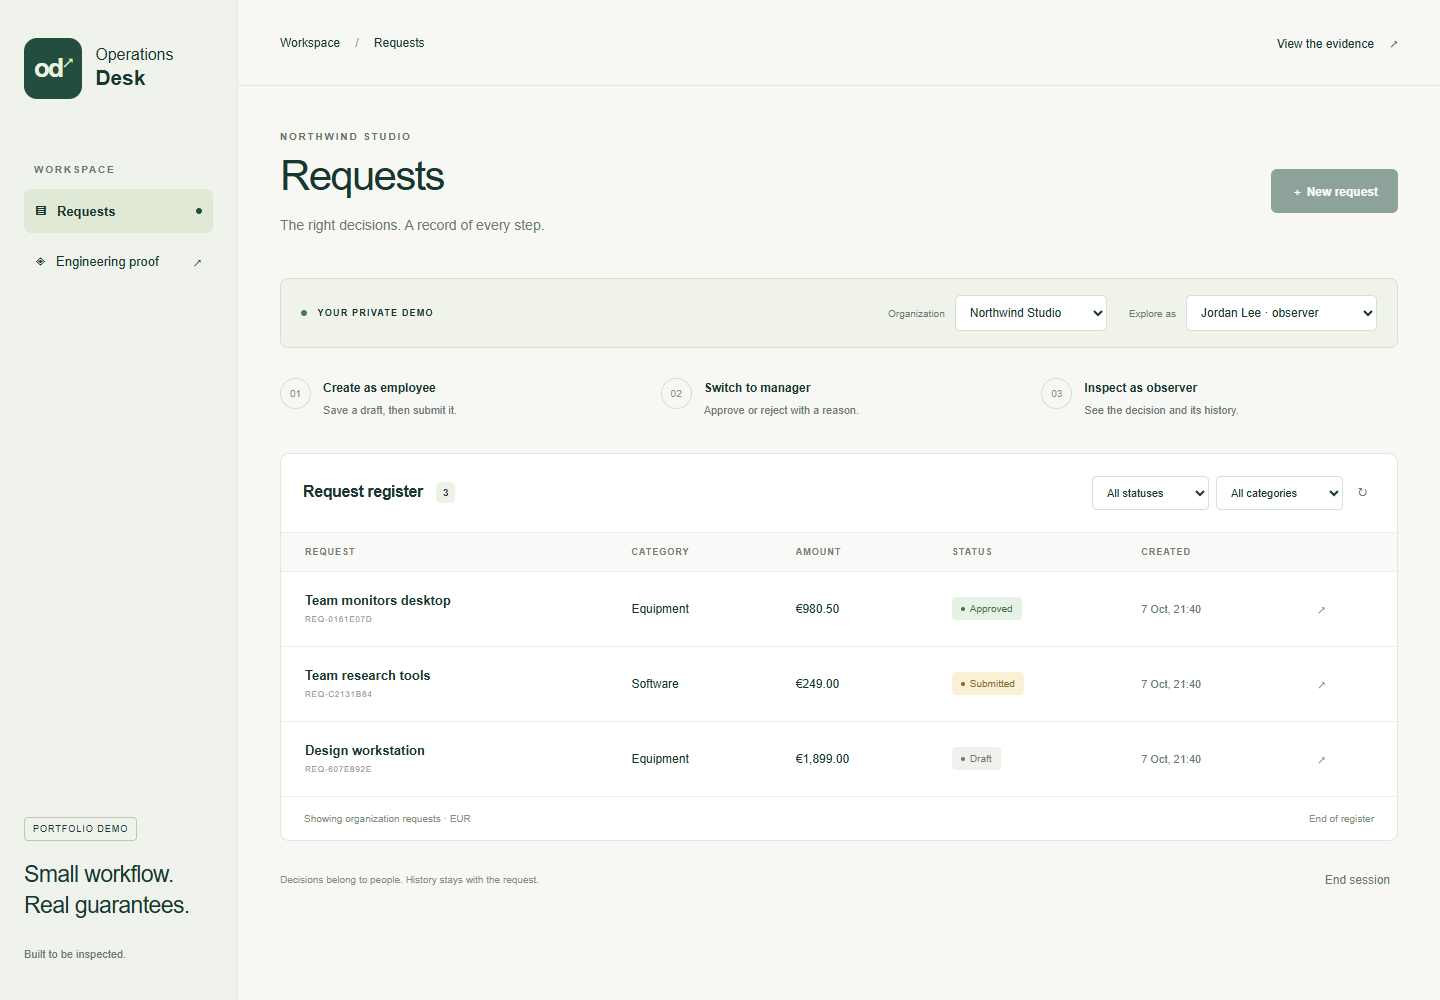
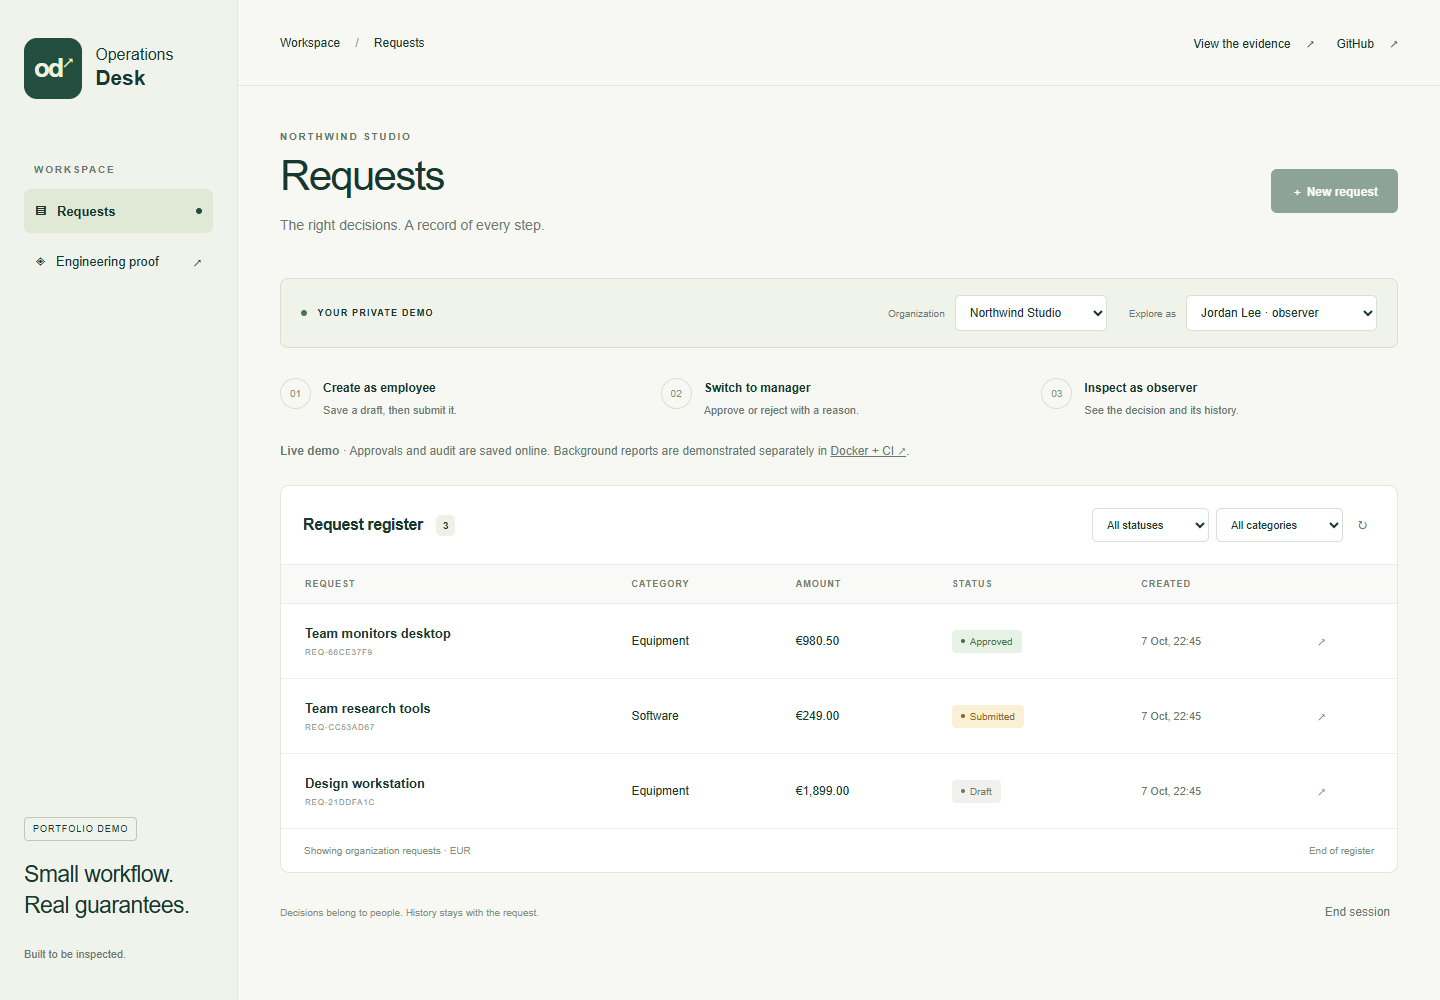
Publish final client-review evidence, screenshots and release provenance

diff --git a/docs/RELEASE.md b/docs/RELEASE.md
@@ -1,36 +1,41 @@
 # Verified release — 2026-10-07
 
-[Try Operations Desk](https://operations-desk-reliability.vanya-matyushkin.workers.dev/) · [Inspect the evidence](https://operations-desk-reliability.vanya-matyushkin.workers.dev/proof/) · [Successful CI run](https://github.com/Hadezu/operations-desk-reliability/actions/runs/37680782120)
+[Try Operations Desk](https://operations-desk-reliability.vanya-matyushkin.workers.dev/) · [Inspect the evidence](https://operations-desk-reliability.vanya-matyushkin.workers.dev/proof/) · [Successful CI run](https://github.com/Hadezu/operations-desk-reliability/actions/runs/37683837483)
 
-The application is published on Cloudflare Workers Free with Neon Free PostgreSQL. Local API, frontend, PostgreSQL and Redis processes were stopped before the final HTTPS approval smoke check, which passed. The deployed app has no dependency on the development computer. No paid plan, paid runner or hosted Redis subscription was enabled.
+The four changes requested after a client-style review are published:
 
-## What was executed
+1. The first screen explains the project, names the author and technologies, and links directly to GitHub. It distinguishes the live approval flow from the complete Node/worker environment.
+2. Activity displays the actor's name and role beside each action; the decision also names its reviewer. Automated worker events have a separate system label. These demo members have fixed names and roles; no claim of historical identity snapshots is made.
+3. Six expandable evidence cards replace the wide table. The overview shows CI status, verification date and evidence counts. Expected/observed results, source links, JSON and provenance remain available. Failed or missing evidence cannot render as passed.
+4. A saved approval clearly completes the online demo. Background reports, retries and recovery are identified as the separate Docker/CI demonstration, with a direct link to that evidence.
 
-- 40 API/database tests across the Prisma and edge SQL adapters, using real PostgreSQL and the restricted application role.
-- Five recovery scenarios against real PostgreSQL and Redis: outbox publication, worker termination, crash after commit, bounded retry and controlled replay, and lost queue-record reconciliation.
-- Desktop and mobile browser approval journeys, including the actual BullMQ report in the separate Docker Compose job.
-- Strict TypeScript checks, Next.js build, Cloudflare bundle and local workerd/PostgreSQL approval flow.
-- Hosted database privilege checks and public HTTPS tests for sessions, CSRF, idempotency, draft edit/delete, approval, role and tenant denials, audit and logout.
+## Verification performed
 
-The CI artifact contains 53 passed checks and one public-deployment placeholder. The website merges the separately collected deployment artifact, producing 54 passed evidence entries. These counts are evidence entries, not 54 independent test cases. Both artifacts are checked into `evidence/`; the website includes them only when their source hash matches the build.
+- 40 API/database tests across Prisma and the edge SQL adapter, using real PostgreSQL and the restricted application role.
+- Five recovery scenarios against PostgreSQL and Redis: outbox publication, process termination, crash after commit, bounded retry with controlled replay, and lost queue-record reconciliation.
+- Desktop and mobile browser approval journeys in both CI jobs, including a real BullMQ report in Docker. New assertions verify named employee/manager audit events, automated worker attribution, demo completion, GitHub links and responsive evidence disclosures.
+- Strict TypeScript, Next.js build, Cloudflare bundle and local workerd/PostgreSQL approval checks.
+- Repeated public HTTPS API checks and desktop/mobile browser journeys after publication. Hosted database privilege checks passed. Manual verification covered the new landing screen, create/submit/approve, named audit, observer restrictions, reload persistence, organization switching and expanded evidence at a 390 px viewport. The landing screen and evidence layout were also checked at 320 px in the local build.
+
+The public page contains 54 passed evidence entries. CI supplies 53 and the separately collected public-deployment observation supplies one. These are evidence entries, not 54 independent test cases. The build embeds them only when their source fingerprints match.
 
 ## Provenance
 
 | Item | Value |
 |---|---|
-| Tested source commit | `da9530acd18a2eeb2cdca7ae4a9aec255a6f0ef4` |
[1 lines of base64/hex data omitted]
-| Successful Actions run | `37680782120` |
-| Downloaded release-proof artifact | `11507614820` |
-| CPU-sampled Worker version | `554a14ab-6e7a-4b82-a3f9-e30916723a5e` |
-| Final Worker version after evidence asset publication | `bdec42fc-fb2a-4bb5-84b4-ec6e4a51a513` |
+| Tested source commit | `3bc346229ec8aed3084835875cb537e60939d188` |
[1 lines of base64/hex data omitted]
+| Successful Actions run | [37683837483](https://github.com/Hadezu/operations-desk-reliability/actions/runs/37683837483) |
+| Downloaded release-proof artifact | `11509549146` |
+| CPU-sampled Worker version | `c6c42127-ffe5-4938-b744-31da1723e0f2` |
+| Final version after evidence asset publication | `1697a7f1-83d0-40ea-8059-7067f9f7b171` |
 
-The final publication added the completed evidence assets without changing application behavior. Its HTTPS smoke check passed after publication. The CPU sample belongs to the explicitly identified earlier runtime version: 81 API invocations, all successful, p50 3 ms, p95 5 ms, maximum 7 ms. It is a small synthetic sample, not a load test or uptime guarantee. Documentation and evidence commits do not change the source fingerprint or rerun the workflow; source changes do.
+The final asset publication added the completed deployment evidence without changing application behavior. Manual approval and persistence checks passed on that final version. The CPU sample explicitly belongs to the earlier version above: 39 API invocations, all successful, p50 3 ms, p95 7 ms, maximum 8 ms. This small synthetic sample does not establish a load capacity or uptime guarantee.
 
-## Scope that a client can verify
+## Hosting and scope
 
-The live site demonstrates the approval workflow, server-side sessions, roles, tenant boundaries, persisted data and audit. Node/Fastify, Prisma, Redis/BullMQ, worker recovery and container delivery are reproducible in Docker and supported by the linked CI artifacts. The public Worker does not run a Redis worker. Next.js uses a static export; SSR, production OIDC and PostgreSQL RLS are not claimed.
+The existing Cloudflare Workers Free and Neon Free resources remain in use. No new resource, paid plan or subscription was added. Local preview servers were stopped before the public checks; the app operates independently of the development computer. Quotas and provider outages still apply.
 
-The provider accounts were confirmed Free at deployment time. Quotas, cold starts and provider outages still apply; this release does not promise uninterrupted availability. See [deployment configuration and limits](DEPLOYMENT.md).
+The live app demonstrates approvals, sessions, roles, tenant boundaries and persisted audit. Node/Fastify, Prisma, Redis/BullMQ and worker recovery are reproducible in Docker and backed by CI. The public Worker does not run a Redis worker. Next.js uses a static export; SSR, production OIDC and PostgreSQL RLS are outside this proof. See [deployment configuration](DEPLOYMENT.md).
 
-This original application is complete for the accepted application scope. The independently scoped contribution to an existing Next.js OSS project remains a separate follow-up and is not claimed as delivered here.
+The independently scoped contribution to an existing Next.js OSS project remains a separate follow-up.

diff --git a/README.md b/README.md
@@ -12,6 +12,8 @@ The interesting part is what happens when two decisions collide, a command is re
 
 **Verified release:** [results and deployment provenance](docs/RELEASE.md), including the successful integration/container CI run and the separate public deployment observations.
 
+The [evidence page](https://operations-desk-reliability.vanya-matyushkin.workers.dev/proof/) presents six expandable guarantees with current CI status, expected/observed results and links to the tested source. Activity names the employee or manager behind each action; automated worker events are labelled separately. The live approval flow clearly completes after saving the decision, while report recovery is demonstrated in Docker/CI.
+
 **Try it in two minutes:** open the live demo and select **Try the demo**. Create and submit a request as Alex, approve it as Sam, then inspect the activity as Jordan. Each visitor receives a separate workspace. No account, installation or personal data is needed. The app runs on Cloudflare Workers Free with Neon Free PostgreSQL; it does not depend on a developer laptop. This is an original synthetic portfolio application, not a customer implementation.
 
 The verification workflow runs 40 API/database assertions across the Prisma and edge SQL adapters, five worker-recovery scenarios, desktop/mobile browser journeys, a Cloudflare runtime check and a separate Docker Compose job. See the exact tested revision and observed results in the evidence artifact; the badge shows the latest workflow status.
